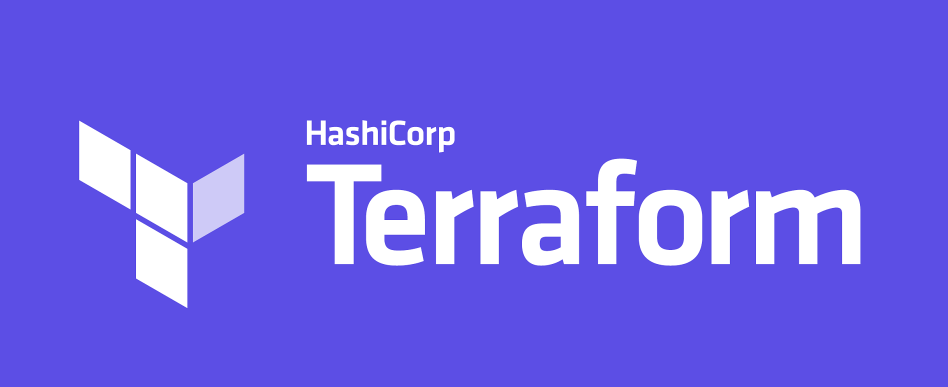
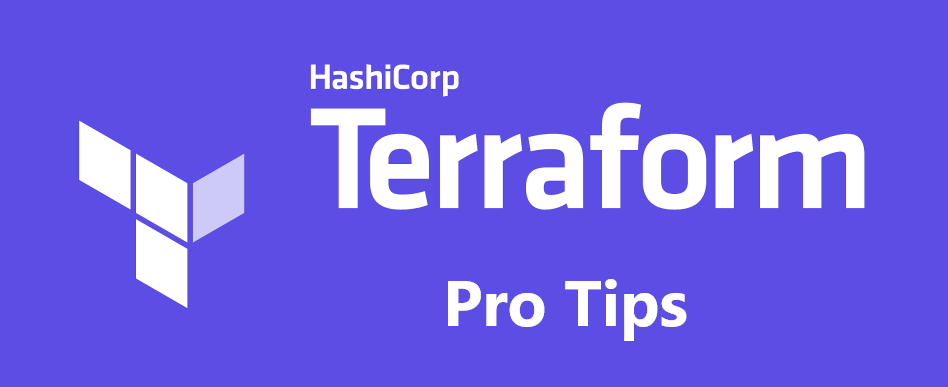
update series post with new image

Changed region(s): [[0.3059, 0.2481, 0.9177, 0.7132], [0.4589, 0.7132, 0.7342, 0.8992], [0.3059, 0.155, 0.4895, 0.2481]]

diff --git a/posts/2021-Devops-Terraform-Git-Ssh/Devops-Terraform-Git-Ssh.md b/posts/2021-Devops-Terraform-Git-Ssh/Devops-Terraform-Git-Ssh.md
@@ -3,7 +3,7 @@ title: Connect Terraform to Azure DevOps Git Repos over SSH
 published: true
 description: DevOps - Terraform - Connecting Git over SSH
 tags: 'terraform, azuredevops, iac, devops'
-cover_image: 'https://raw.githubusercontent.com/Pwd9000-ML/blog-devto/main/posts/2021-Devops-Terraform-Git-Ssh/assets/main-tf-ado1.png'
+cover_image: 'https://raw.githubusercontent.com/Pwd9000-ML/blog-devto/main/posts/2021-Devops-Terraform-Git-Ssh/assets/main-tf.png'
 canonical_url: null
 id: 767794
 series: Terraform Pro Tips
